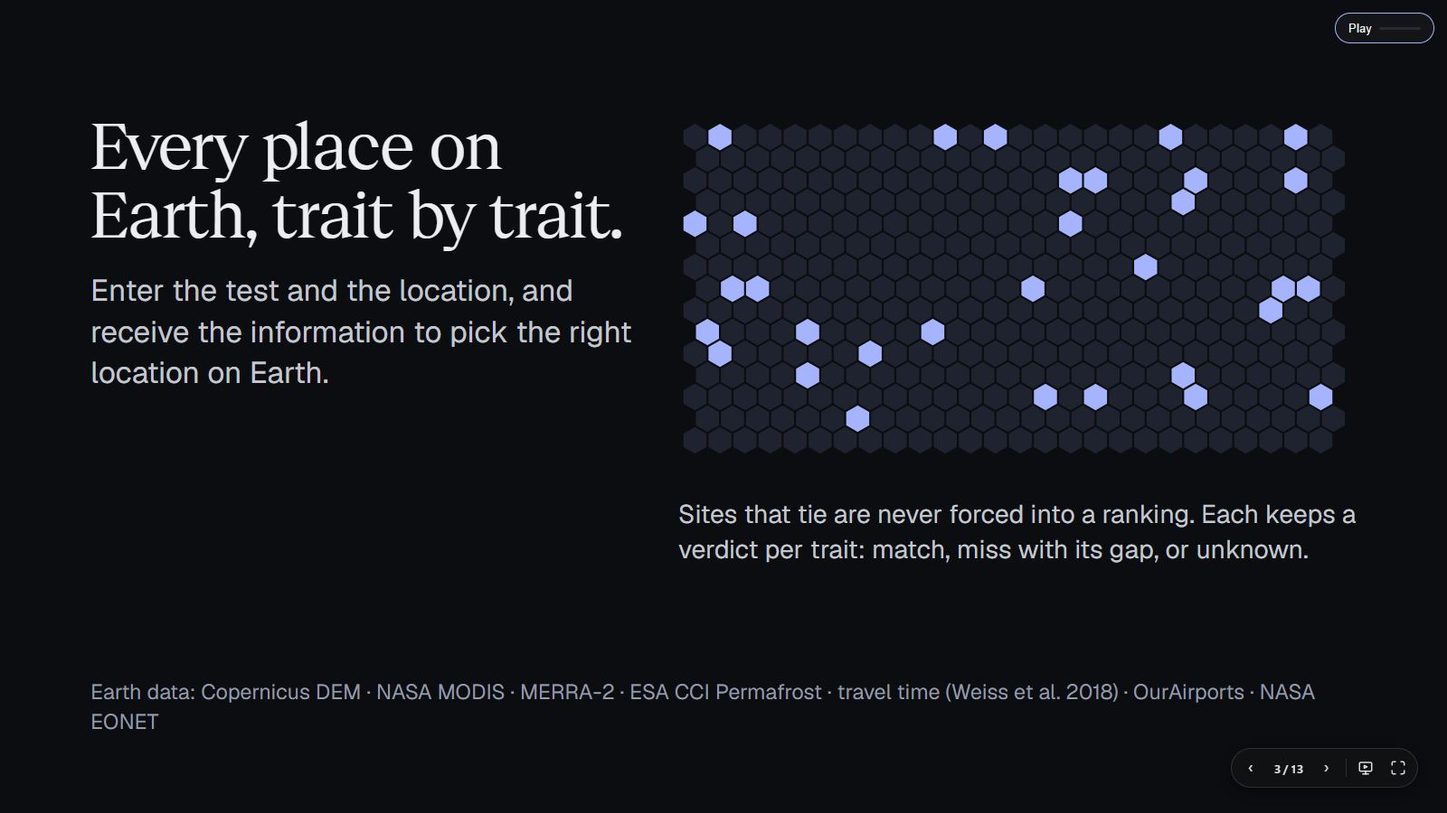
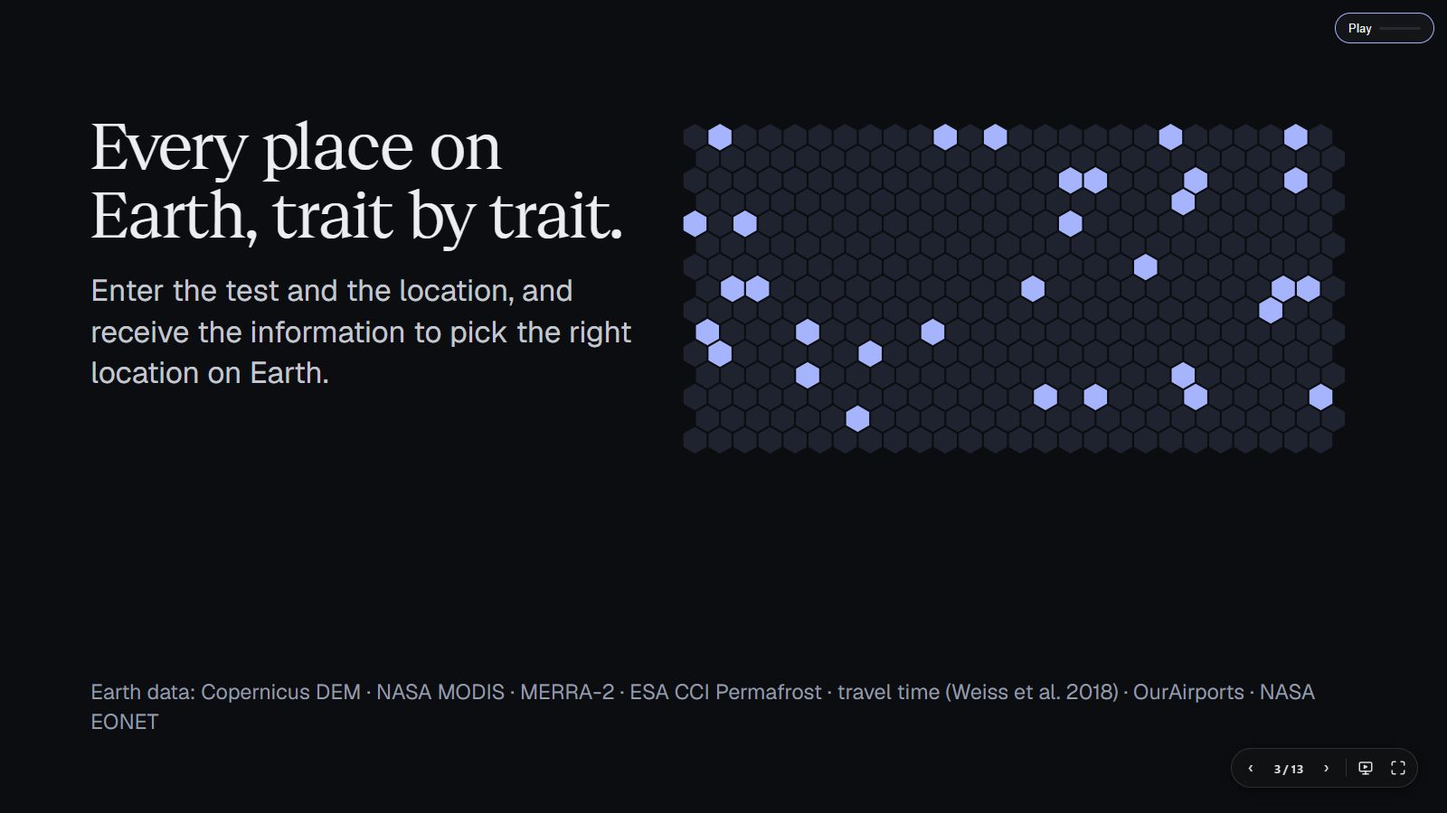
pitch(#215): drop the tie sentence from the How it works slide

Changed region(s): [[0.4688, 0.6222, 0.9375, 0.6844]]

diff --git a/apps/showcase/composition/index.html b/apps/showcase/composition/index.html
@@ -22,7 +22,7 @@
     },
     {
       "sceneId": "approach",
-      "notes": "Enter the test and the location; the grid lights up the cells that fit. Ties are not ranked."
+      "notes": "Enter the test and the location; the grid lights up the cells that fit."
     },
     {
       "sceneId": "step-1",
@@ -115,7 +115,6 @@
     <p class="lead approach-lead" data-anim>Enter the test and the location, and receive the information to pick the right location on Earth.</p>
   </div>
   <div class="hexwrap" data-glide><svg class="hexes" viewBox="0 0 1220 640" aria-hidden="true"><polygon class="hx" points="50.7,42.0 30.0,53.9 9.3,42.0 9.3,18.0 30.0,6.1 50.7,18.0"/><polygon class="hx fit" points="95.7,42.0 75.0,53.9 54.3,42.0 54.3,18.0 75.0,6.1 95.7,18.0"/><polygon class="hx" points="140.8,42.0 120.1,53.9 99.3,42.0 99.3,18.0 120.1,6.1 140.8,18.0"/><polygon class="hx" points="185.8,42.0 165.1,53.9 144.4,42.0 144.4,18.0 165.1,6.1 185.8,18.0"/><polygon class="hx" points="230.8,42.0 210.1,53.9 189.4,42.0 189.4,18.0 210.1,6.1 230.8,18.0"/><polygon class="hx" points="275.9,42.0 255.2,53.9 234.4,42.0 234.4,18.0 255.2,6.1 275.9,18.0"/><polygon class="hx" points="320.9,42.0 300.2,53.9 279.5,42.0 279.5,18.0 300.2,6.1 320.9,18.0"/><polygon class="hx" points="365.9,42.0 345.2,53.9 324.5,42.0 324.5,18.0 345.2,6.1 365.9,18.0"/><polygon class="hx" points="411.0,42.0 390.3,53.9 369.5,42.0 369.5,18.0 390.3,6.1 411.0,18.0"/><polygon class="hx" points="456.0,42.0 435.3,53.9 414.6,42.0 414.6,18.0 435.3,6.1 456.0,18.0"/><polygon class="hx fit" points="501.0,42.0 480.3,53.9 459.6,42.0 459.6,18.0 480.3,6.1 501.0,18.0"/><polygon class="hx" points="546.1,42.0 525.4,53.9 504.6,42.0 504.6,18.0 525.4,6.1 546.1,18.0"/><polygon class="hx fit" points="591.1,42.0 570.4,53.9 549.7,42.0 549.7,18.0 570.4,6.1 591.1,18.0"/><polygon class="hx" points="636.1,42.0 615.4,53.9 594.7,42.0 594.7,18.0 615.4,6.1 636.1,18.0"/><polygon class="hx" points="681.2,42.0 660.4,53.9 639.7,42.0 639.7,18.0 660.4,6.1 681.2,18.0"/><polygon class="hx" points="726.2,42.0 705.5,53.9 684.8,42.0 684.8,18.0 705.5,6.1 726.2,18.0"/><polygon class="hx" points="771.2,42.0 750.5,53.9 729.8,42.0 729.8,18.0 750.5,6.1 771.2,18.0"/><polygon class="hx" points="816.3,42.0 795.5,53.9 774.8,42.0 774.8,18.0 795.5,6.1 816.3,18.0"/><polygon class="hx" points="861.3,42.0 840.6,53.9 819.9,42.0 819.9,18.0 840.6,6.1 861.3,18.0"/><polygon class="hx fit" points="906.3,42.0 885.6,53.9 864.9,42.0 864.9,18.0 885.6,6.1 906.3,18.0"/><polygon class="hx" points="951.4,42.0 930.6,53.9 909.9,42.0 909.9,18.0 930.6,6.1 951.4,18.0"/><polygon class="hx" points="996.4,42.0 975.7,53.9 955.0,42.0 955.0,18.0 975.7,6.1 996.4,18.0"/><polygon class="hx" points="1041.4,42.0 1020.7,53.9 1000.0,42.0 1000.0,18.0 1020.7,6.1 1041.4,18.0"/><polygon class="hx" points="1086.5,42.0 1065.7,53.9 1045.0,42.0 1045.0,18.0 1065.7,6.1 1086.5,18.0"/><polygon class="hx fit" points="1131.5,42.0 1110.8,53.9 1090.1,42.0 1090.1,18.0 1110.8,6.1 1131.5,18.0"/><polygon class="hx" points="1176.5,42.0 1155.8,53.9 1135.1,42.0 1135.1,18.0 1155.8,6.1 1176.5,18.0"/><polygon class="hx" points="73.2,81.0 52.5,92.9 31.8,81.0 31.8,57.0 52.5,45.1 73.2,57.0"/><polygon class="hx" points="118.3,81.0 97.5,92.9 76.8,81.0 76.8,57.0 97.5,45.1 118.3,57.0"/><polygon class="hx" points="163.3,81.0 142.6,92.9 121.9,81.0 121.9,57.0 142.6,45.1 163.3,57.0"/><polygon class="hx" points="208.3,81.0 187.6,92.9 166.9,81.0 166.9,57.0 187.6,45.1 208.3,57.0"/><polygon class="hx" points="253.4,81.0 232.6,92.9 211.9,81.0 211.9,57.0 232.6,45.1 253.4,57.0"/><polygon class="hx" points="298.4,81.0 277.7,92.9 257.0,81.0 257.0,57.0 277.7,45.1 298.4,57.0"/><polygon class="hx" points="343.4,81.0 322.7,92.9 302.0,81.0 302.0,57.0 322.7,45.1 343.4,57.0"/><polygon class="hx" points="388.5,81.0 367.7,92.9 347.0,81.0 347.0,57.0 367.7,45.1 388.5,57.0"/><polygon class="hx" points="433.5,81.0 412.8,92.9 392.1,81.0 392.1,57.0 412.8,45.1 433.5,57.0"/><polygon class="hx" points="478.5,81.0 457.8,92.9 437.1,81.0 437.1,57.0 457.8,45.1 478.5,57.0"/><polygon class="hx" points="523.6,81.0 502.8,92.9 482.1,81.0 482.1,57.0 502.8,45.1 523.6,57.0"/><polygon class="hx" points="568.6,81.0 547.9,92.9 527.2,81.0 527.2,57.0 547.9,45.1 568.6,57.0"/><polygon class="hx" points="613.6,81.0 592.9,92.9 572.2,81.0 572.2,57.0 592.9,45.1 613.6,57.0"/><polygon class="hx" points="658.6,81.0 637.9,92.9 617.2,81.0 617.2,57.0 637.9,45.1 658.6,57.0"/><polygon class="hx" points="703.7,81.0 683.0,92.9 662.2,81.0 662.2,57.0 683.0,45.1 703.7,57.0"/><polygon class="hx" points="748.7,81.0 728.0,92.9 707.3,81.0 707.3,57.0 728.0,45.1 748.7,57.0"/><polygon class="hx" points="793.7,81.0 773.0,92.9 752.3,81.0 752.3,57.0 773.0,45.1 793.7,57.0"/><polygon class="hx" points="838.8,81.0 818.1,92.9 797.3,81.0 797.3,57.0 818.1,45.1 838.8,57.0"/><polygon class="hx" points="883.8,81.0 863.1,92.9 842.4,81.0 842.4,57.0 863.1,45.1 883.8,57.0"/><polygon class="hx" points="928.8,81.0 908.1,92.9 887.4,81.0 887.4,57.0 908.1,45.1 928.8,57.0"/><polygon class="hx" points="973.9,81.0 953.2,92.9 932.4,81.0 932.4,57.0 953.2,45.1 973.9,57.0"/><polygon class="hx" points="1018.9,81.0 998.2,92.9 977.5,81.0 977.5,57.0 998.2,45.1 1018.9,57.0"/><polygon class="hx" points="1063.9,81.0 1043.2,92.9 1022.5,81.0 1022.5,57.0 1043.2,45.1 1063.9,57.0"/><polygon class="hx" points="1109.0,81.0 1088.3,92.9 1067.5,81.0 1067.5,57.0 1088.3,45.1 1109.0,57.0"/><polygon class="hx" points="1154.0,81.0 1133.3,92.9 1112.6,81.0 1112.6,57.0 1133.3,45.1 1154.0,57.0"/><polygon class="hx" points="1199.0,81.0 1178.3,92.9 1157.6,81.0 1157.6,57.0 1178.3,45.1 1199.0,57.0"/><polygon class="hx" points="50.7,120.0 30.0,131.9 9.3,120.0 9.3,96.0 30.0,84.1 50.7,96.0"/><polygon class="hx" points="95.7,120.0 75.0,131.9 54.3,120.0 54.3,96.0 75.0,84.1 95.7,96.0"/><polygon class="hx" points="140.8,120.0 120.1,131.9 99.3,120.0 99.3,96.0 120.1,84.1 140.8,96.0"/><polygon class="hx" points="185.8,120.0 165.1,131.9 144.4,120.0 144.4,96.0 165.1,84.1 185.8,96.0"/><polygon class="hx" points="230.8,120.0 210.1,131.9 189.4,120.0 189.4,96.0 210.1,84.1 230.8,96.0"/><polygon class="hx" points="275.9,120.0 255.2,131.9 234.4,120.0 234.4,96.0 255.2,84.1 275.9,96.0"/><polygon class="hx" points="320.9,120.0 300.2,131.9 279.5,120.0 279.5,96.0 300.2,84.1 320.9,96.0"/><polygon class="hx" points="365.9,120.0 345.2,131.9 324.5,120.0 324.5,96.0 345.2,84.1 365.9,96.0"/><polygon class="hx" points="411.0,120.0 390.3,131.9 369.5,120.0 369.5,96.0 390.3,84.1 411.0,96.0"/><polygon class="hx" points="456.0,120.0 435.3,131.9 414.6,120.0 414.6,96.0 435.3,84.1 456.0,96.0"/><polygon class="hx" points="501.0,120.0 480.3,131.9 459.6,120.0 459.6,96.0 480.3,84.1 501.0,96.0"/><polygon class="hx" points="546.1,120.0 525.4,131.9 504.6,120.0 504.6,96.0 525.4,84.1 546.1,96.0"/><polygon class="hx" points="591.1,120.0 570.4,131.9 549.7,120.0 549.7,96.0 570.4,84.1 591.1,96.0"/><polygon class="hx" points="636.1,120.0 615.4,131.9 594.7,120.0 594.7,96.0 615.4,84.1 636.1,96.0"/><polygon class="hx" points="681.2,120.0 660.4,131.9 639.7,120.0 639.7,96.0 660.4,84.1 681.2,96.0"/><polygon class="hx fit" points="726.2,120.0 705.5,131.9 684.8,120.0 684.8,96.0 705.5,84.1 726.2,96.0"/><polygon class="hx fit" points="771.2,120.0 750.5,131.9 729.8,120.0 729.8,96.0 750.5,84.1 771.2,96.0"/><polygon class="hx" points="816.3,120.0 795.5,131.9 774.8,120.0 774.8,96.0 795.5,84.1 816.3,96.0"/><polygon class="hx" points="861.3,120.0 840.6,131.9 819.9,120.0 819.9,96.0 840.6,84.1 861.3,96.0"/><polygon class="hx" points="906.3,120.0 885.6,131.9 864.9,120.0 864.9,96.0 885.6,84.1 906.3,96.0"/><polygon class="hx fit" points="951.4,120.0 930.6,131.9 909.9,120.0 909.9,96.0 930.6,84.1 951.4,96.0"/><polygon class="hx" points="996.4,120.0 975.7,131.9 955.0,120.0 955.0,96.0 975.7,84.1 996.4,96.0"/><polygon class="hx" points="1041.4,120.0 1020.7,131.9 1000.0,120.0 1000.0,96.0 1020.7,84.1 1041.4,96.0"/><polygon class="hx" points="1086.5,120.0 1065.7,131.9 1045.0,120.0 1045.0,96.0 1065.7,84.1 1086.5,96.0"/><polygon class="hx fit" points="1131.5,120.0 1110.8,131.9 1090.1,120.0 1090.1,96.0 1110.8,84.1 1131.5,96.0"/><polygon class="hx" points="1176.5,120.0 1155.8,131.9 1135.1,120.0 1135.1,96.0 1155.8,84.1 1176.5,96.0"/><polygon class="hx" points="73.2,159.0 52.5,170.9 31.8,159.0 31.8,135.0 52.5,123.1 73.2,135.0"/><polygon class="hx" points="118.3,159.0 97.5,170.9 76.8,159.0 76.8,135.0 97.5,123.1 118.3,135.0"/><polygon class="hx" points="163.3,159.0 142.6,170.9 121.9,159.0 121.9,135.0 142.6,123.1 163.3,135.0"/><polygon class="hx" points="208.3,159.0 187.6,170.9 166.9,159.0 166.9,135.0 187.6,123.1 208.3,135.0"/><polygon class="hx" points="253.4,159.0 232.6,170.9 211.9,159.0 211.9,135.0 232.6,123.1 253.4,135.0"/><polygon class="hx" points="298.4,159.0 277.7,170.9 257.0,159.0 257.0,135.0 277.7,123.1 298.4,135.0"/><polygon class="hx" points="343.4,159.0 322.7,170.9 302.0,159.0 302.0,135.0 322.7,123.1 343.4,135.0"/><polygon class="hx" points="388.5,159.0 367.7,170.9 347.0,159.0 347.0,135.0 367.7,123.1 388.5,135.0"/><polygon class="hx" points="433.5,159.0 412.8,170.9 392.1,159.0 392.1,135.0 412.8,123.1 433.5,135.0"/><polygon class="hx" points="478.5,159.0 457.8,170.9 437.1,159.0 437.1,135.0 457.8,123.1 478.5,135.0"/><polygon class="hx" points="523.6,159.0 502.8,170.9 482.1,159.0 482.1,135.0 502.8,123.1 523.6,135.0"/><polygon class="hx" points="568.6,159.0 547.9,170.9 527.2,159.0 527.2,135.0 547.9,123.1 568.6,135.0"/><polygon class="hx" points="613.6,159.0 592.9,170.9 572.2,159.0 572.2,135.0 592.9,123.1 613.6,135.0"/><polygon class="hx" points="658.6,159.0 637.9,170.9 617.2,159.0 617.2,135.0 637.9,123.1 658.6,135.0"/><polygon class="hx" points="703.7,159.0 683.0,170.9 662.2,159.0 662.2,135.0 683.0,123.1 703.7,135.0"/><polygon class="hx" points="748.7,159.0 728.0,170.9 707.3,159.0 707.3,135.0 728.0,123.1 748.7,135.0"/><polygon class="hx" points="793.7,159.0 773.0,170.9 752.3,159.0 752.3,135.0 773.0,123.1 793.7,135.0"/><polygon class="hx" points="838.8,159.0 818.1,170.9 797.3,159.0 797.3,135.0 818.1,123.1 838.8,135.0"/><polygon class="hx" points="883.8,159.0 863.1,170.9 842.4,159.0 842.4,135.0 863.1,123.1 883.8,135.0"/><polygon class="hx fit" points="928.8,159.0 908.1,170.9 887.4,159.0 887.4,135.0 908.1,123.1 928.8,135.0"/><polygon class="hx" points="973.9,159.0 953.2,170.9 932.4,159.0 932.4,135.0 953.2,123.1 973.9,135.0"/><polygon class="hx" points="1018.9,159.0 998.2,170.9 977.5,159.0 977.5,135.0 998.2,123.1 1018.9,135.0"/><polygon class="hx" points="1063.9,159.0 1043.2,170.9 1022.5,159.0 1022.5,135.0 1043.2,123.1 1063.9,135.0"/><polygon class="hx" points="1109.0,159.0 1088.3,170.9 1067.5,159.0 1067.5,135.0 1088.3,123.1 1109.0,135.0"/><polygon class="hx" points="1154.0,159.0 1133.3,170.9 1112.6,159.0 1112.6,135.0 1133.3,123.1 1154.0,135.0"/><polygon class="hx" points="1199.0,159.0 1178.3,170.9 1157.6,159.0 1157.6,135.0 1178.3,123.1 1199.0,135.0"/><polygon class="hx fit" points="50.7,198.0 30.0,209.9 9.3,198.0 9.3,174.0 30.0,162.1 50.7,174.0"/><polygon class="hx" points="95.7,198.0 75.0,209.9 54.3,198.0 54.3,174.0 75.0,162.1 95.7,174.0"/><polygon class="hx fit" points="140.8,198.0 120.1,209.9 99.3,198.0 99.3,174.0 120.1,162.1 140.8,174.0"/><polygon class="hx" points="185.8,198.0 165.1,209.9 144.4,198.0 144.4,174.0 165.1,162.1 185.8,174.0"/><polygon class="hx" points="230.8,198.0 210.1,209.9 189.4,198.0 189.4,174.0 210.1,162.1 230.8,174.0"/><polygon class="hx" points="275.9,198.0 255.2,209.9 234.4,198.0 234.4,174.0 255.2,162.1 275.9,174.0"/><polygon class="hx" points="320.9,198.0 300.2,209.9 279.5,198.0 279.5,174.0 300.2,162.1 320.9,174.0"/><polygon class="hx" points="365.9,198.0 345.2,209.9 324.5,198.0 324.5,174.0 345.2,162.1 365.9,174.0"/><polygon class="hx" points="411.0,198.0 390.3,209.9 369.5,198.0 369.5,174.0 390.3,162.1 411.0,174.0"/><polygon class="hx" points="456.0,198.0 435.3,209.9 414.6,198.0 414.6,174.0 435.3,162.1 456.0,174.0"/><polygon class="hx" points="501.0,198.0 480.3,209.9 459.6,198.0 459.6,174.0 480.3,162.1 501.0,174.0"/><polygon class="hx" points="546.1,198.0 525.4,209.9 504.6,198.0 504.6,174.0 525.4,162.1 546.1,174.0"/><polygon class="hx" points="591.1,198.0 570.4,209.9 549.7,198.0 549.7,174.0 570.4,162.1 591.1,174.0"/><polygon class="hx" points="636.1,198.0 615.4,209.9 594.7,198.0 594.7,174.0 615.4,162.1 636.1,174.0"/><polygon class="hx" points="681.2,198.0 660.4,209.9 639.7,198.0 639.7,174.0 660.4,162.1 681.2,174.0"/><polygon class="hx fit" points="726.2,198.0 705.5,209.9 684.8,198.0 684.8,174.0 705.5,162.1 726.2,174.0"/><polygon class="hx" points="771.2,198.0 750.5,209.9 729.8,198.0 729.8,174.0 750.5,162.1 771.2,174.0"/><polygon class="hx" points="816.3,198.0 795.5,209.9 774.8,198.0 774.8,174.0 795.5,162.1 816.3,174.0"/><polygon class="hx" points="861.3,198.0 840.6,209.9 819.9,198.0 819.9,174.0 840.6,162.1 861.3,174.0"/><polygon class="hx" points="906.3,198.0 885.6,209.9 864.9,198.0 864.9,174.0 885.6,162.1 906.3,174.0"/><polygon class="hx" points="951.4,198.0 930.6,209.9 909.9,198.0 909.9,174.0 930.6,162.1 951.4,174.0"/><polygon class="hx" points="996.4,198.0 975.7,209.9 955.0,198.0 955.0,174.0 975.7,162.1 996.4,174.0"/><polygon class="hx" points="1041.4,198.0 1020.7,209.9 1000.0,198.0 1000.0,174.0 1020.7,162.1 1041.4,174.0"/><polygon class="hx" points="1086.5,198.0 1065.7,209.9 1045.0,198.0 1045.0,174.0 1065.7,162.1 1086.5,174.0"/><polygon class="hx" points="1131.5,198.0 1110.8,209.9 1090.1,198.0 1090.1,174.0 1110.8,162.1 1131.5,174.0"/><polygon class="hx" points="1176.5,198.0 1155.8,209.9 1135.1,198.0 1135.1,174.0 1155.8,162.1 1176.5,174.0"/><polygon class="hx" points="73.2,237.0 52.5,248.9 31.8,237.0 31.8,213.0 52.5,201.1 73.2,213.0"/><polygon class="hx" points="118.3,237.0 97.5,248.9 76.8,237.0 76.8,213.0 97.5,201.1 118.3,213.0"/><polygon class="hx" points="163.3,237.0 142.6,248.9 121.9,237.0 121.9,213.0 142.6,201.1 163.3,213.0"/><polygon class="hx" points="208.3,237.0 187.6,248.9 166.9,237.0 166.9,213.0 187.6,201.1 208.3,213.0"/><polygon class="hx" points="253.4,237.0 232.6,248.9 211.9,237.0 211.9,213.0 232.6,201.1 253.4,213.0"/><polygon class="hx" points="298.4,237.0 277.7,248.9 257.0,237.0 257.0,213.0 277.7,201.1 298.4,213.0"/><polygon class="hx" points="343.4,237.0 322.7,248.9 302.0,237.0 302.0,213.0 322.7,201.1 343.4,213.0"/><polygon class="hx" points="388.5,237.0 367.7,248.9 347.0,237.0 347.0,213.0 367.7,201.1 388.5,213.0"/><polygon class="hx" points="433.5,237.0 412.8,248.9 392.1,237.0 392.1,213.0 412.8,201.1 433.5,213.0"/><polygon class="hx" points="478.5,237.0 457.8,248.9 437.1,237.0 437.1,213.0 457.8,201.1 478.5,213.0"/><polygon class="hx" points="523.6,237.0 502.8,248.9 482.1,237.0 482.1,213.0 502.8,201.1 523.6,213.0"/><polygon class="hx" points="568.6,237.0 547.9,248.9 527.2,237.0 527.2,213.0 547.9,201.1 568.6,213.0"/><polygon class="hx" points="613.6,237.0 592.9,248.9 572.2,237.0 572.2,213.0 592.9,201.1 613.6,213.0"/><polygon class="hx" points="658.6,237.0 637.9,248.9 617.2,237.0 617.2,213.0 637.9,201.1 658.6,213.0"/><polygon class="hx" points="703.7,237.0 683.0,248.9 662.2,237.0 662.2,213.0 683.0,201.1 703.7,213.0"/><polygon class="hx" points="748.7,237.0 728.0,248.9 707.3,237.0 707.3,213.0 728.0,201.1 748.7,213.0"/><polygon class="hx" points="793.7,237.0 773.0,248.9 752.3,237.0 752.3,213.0 773.0,201.1 793.7,213.0"/><polygon class="hx" points="838.8,237.0 818.1,248.9 797.3,237.0 797.3,213.0 818.1,201.1 838.8,213.0"/><polygon class="hx" points="883.8,237.0 863.1,248.9 842.4,237.0 842.4,213.0 863.1,201.1 883.8,213.0"/><polygon class="hx" points="928.8,237.0 908.1,248.9 887.4,237.0 887.4,213.0 908.1,201.1 928.8,213.0"/><polygon class="hx" points="973.9,237.0 953.2,248.9 932.4,237.0 932.4,213.0 953.2,201.1 973.9,213.0"/><polygon class="hx" points="1018.9,237.0 998.2,248.9 977.5,237.0 977.5,213.0 998.2,201.1 1018.9,213.0"/><polygon class="hx" points="1063.9,237.0 1043.2,248.9 1022.5,237.0 1022.5,213.0 1043.2,201.1 1063.9,213.0"/><polygon class="hx" points="1109.0,237.0 1088.3,248.9 1067.5,237.0 1067.5,213.0 1088.3,201.1 1109.0,213.0"/><polygon class="hx" points="1154.0,237.0 1133.3,248.9 1112.6,237.0 1112.6,213.0 1133.3,201.1 1154.0,213.0"/><polygon class="hx" points="1199.0,237.0 1178.3,248.9 1157.6,237.0 1157.6,213.0 1178.3,201.1 1199.0,213.0"/><polygon class="hx" points="50.7,276.0 30.0,287.9 9.3,276.0 9.3,252.0 30.0,240.1 50.7,252.0"/><polygon class="hx" points="95.7,276.0 75.0,287.9 54.3,276.0 54.3,252.0 75.0,240.1 95.7,252.0"/><polygon class="hx" points="140.8,276.0 120.1,287.9 99.3,276.0 99.3,252.0 120.1,240.1 140.8,252.0"/><polygon class="hx" points="185.8,276.0 165.1,287.9 144.4,276.0 144.4,252.0 165.1,240.1 185.8,252.0"/><polygon class="hx" points="230.8,276.0 210.1,287.9 189.4,276.0 189.4,252.0 210.1,240.1 230.8,252.0"/><polygon class="hx" points="275.9,276.0 255.2,287.9 234.4,276.0 234.4,252.0 255.2,240.1 275.9,252.0"/><polygon class="hx" points="320.9,276.0 300.2,287.9 279.5,276.0 279.5,252.0 300.2,240.1 320.9,252.0"/><polygon class="hx" points="365.9,276.0 345.2,287.9 324.5,276.0 324.5,252.0 345.2,240.1 365.9,252.0"/><polygon class="hx" points="411.0,276.0 390.3,287.9 369.5,276.0 369.5,252.0 390.3,240.1 411.0,252.0"/><polygon class="hx" points="456.0,276.0 435.3,287.9 414.6,276.0 414.6,252.0 435.3,240.1 456.0,252.0"/><polygon class="hx" points="501.0,276.0 480.3,287.9 459.6,276.0 459.6,252.0 480.3,240.1 501.0,252.0"/><polygon class="hx" points="546.1,276.0 525.4,287.9 504.6,276.0 504.6,252.0 525.4,240.1 546.1,252.0"/><polygon class="hx" points="591.1,276.0 570.4,287.9 549.7,276.0 549.7,252.0 570.4,240.1 591.1,252.0"/><polygon class="hx" points="636.1,276.0 615.4,287.9 594.7,276.0 594.7,252.0 615.4,240.1 636.1,252.0"/><polygon class="hx" points="681.2,276.0 660.4,287.9 639.7,276.0 639.7,252.0 660.4,240.1 681.2,252.0"/><polygon class="hx" points="726.2,276.0 705.5,287.9 684.8,276.0 684.8,252.0 705.5,240.1 726.2,252.0"/><polygon class="hx" points="771.2,276.0 750.5,287.9 729.8,276.0 729.8,252.0 750.5,240.1 771.2,252.0"/><polygon class="hx" points="816.3,276.0 795.5,287.9 774.8,276.0 774.8,252.0 795.5,240.1 816.3,252.0"/><polygon class="hx fit" points="861.3,276.0 840.6,287.9 819.9,276.0 819.9,252.0 840.6,240.1 861.3,252.0"/><polygon class="hx" points="906.3,276.0 885.6,287.9 864.9,276.0 864.9,252.0 885.6,240.1 906.3,252.0"/><polygon class="hx" points="951.4,276.0 930.6,287.9 909.9,276.0 909.9,252.0 930.6,240.1 951.4,252.0"/><polygon class="hx" points="996.4,276.0 975.7,287.9 955.0,276.0 955.0,252.0 975.7,240.1 996.4,252.0"/><polygon class="hx" points="1041.4,276.0 1020.7,287.9 1000.0,276.0 1000.0,252.0 1020.7,240.1 1041.4,252.0"/><polygon class="hx" points="1086.5,276.0 1065.7,287.9 1045.0,276.0 1045.0,252.0 1065.7,240.1 1086.5,252.0"/><polygon class="hx" points="1131.5,276.0 1110.8,287.9 1090.1,276.0 1090.1,252.0 1110.8,240.1 1131.5,252.0"/><polygon class="hx" points="1176.5,276.0 1155.8,287.9 1135.1,276.0 1135.1,252.0 1155.8,240.1 1176.5,252.0"/><polygon class="hx" points="73.2,315.0 52.5,326.9 31.8,315.0 31.8,291.0 52.5,279.1 73.2,291.0"/><polygon class="hx fit" points="118.3,315.0 97.5,326.9 76.8,315.0 76.8,291.0 97.5,279.1 118.3,291.0"/><polygon class="hx fit" points="163.3,315.0 142.6,326.9 121.9,315.0 121.9,291.0 142.6,279.1 163.3,291.0"/><polygon class="hx" points="208.3,315.0 187.6,326.9 166.9,315.0 166.9,291.0 187.6,279.1 208.3,291.0"/><polygon class="hx" points="253.4,315.0 232.6,326.9 211.9,315.0 211.9,291.0 232.6,279.1 253.4,291.0"/><polygon class="hx" points="298.4,315.0 277.7,326.9 257.0,315.0 257.0,291.0 277.7,279.1 298.4,291.0"/><polygon class="hx" points="343.4,315.0 322.7,326.9 302.0,315.0 302.0,291.0 322.7,279.1 343.4,291.0"/><polygon class="hx" points="388.5,315.0 367.7,326.9 347.0,315.0 347.0,291.0 367.7,279.1 388.5,291.0"/><polygon class="hx" points="433.5,315.0 412.8,326.9 392.1,315.0 392.1,291.0 412.8,279.1 433.5,291.0"/><polygon class="hx" points="478.5,315.0 457.8,326.9 437.1,315.0 437.1,291.0 457.8,279.1 478.5,291.0"/><polygon class="hx" points="523.6,315.0 502.8,326.9 482.1,315.0 482.1,291.0 502.8,279.1 523.6,291.0"/><polygon class="hx" points="568.6,315.0 547.9,326.9 527.2,315.0 527.2,291.0 547.9,279.1 568.6,291.0"/><polygon class="hx" points="613.6,315.0 592.9,326.9 572.2,315.0 572.2,291.0 592.9,279.1 613.6,291.0"/><polygon class="hx fit" points="658.6,315.0 637.9,326.9 617.2,315.0 617.2,291.0 637.9,279.1 658.6,291.0"/><polygon class="hx" points="703.7,315.0 683.0,326.9 662.2,315.0 662.2,291.0 683.0,279.1 703.7,291.0"/><polygon class="hx" points="748.7,315.0 728.0,326.9 707.3,315.0 707.3,291.0 728.0,279.1 748.7,291.0"/><polygon class="hx" points="793.7,315.0 773.0,326.9 752.3,315.0 752.3,291.0 773.0,279.1 793.7,291.0"/><polygon class="hx" points="838.8,315.0 818.1,326.9 797.3,315.0 797.3,291.0 818.1,279.1 838.8,291.0"/><polygon class="hx" points="883.8,315.0 863.1,326.9 842.4,315.0 842.4,291.0 863.1,279.1 883.8,291.0"/><polygon class="hx" points="928.8,315.0 908.1,326.9 887.4,315.0 887.4,291.0 908.1,279.1 928.8,291.0"/><polygon class="hx" points="973.9,315.0 953.2,326.9 932.4,315.0 932.4,291.0 953.2,279.1 973.9,291.0"/><polygon class="hx" points="1018.9,315.0 998.2,326.9 977.5,315.0 977.5,291.0 998.2,279.1 1018.9,291.0"/><polygon class="hx" points="1063.9,315.0 1043.2,326.9 1022.5,315.0 1022.5,291.0 1043.2,279.1 1063.9,291.0"/><polygon class="hx fit" points="1109.0,315.0 1088.3,326.9 1067.5,315.0 1067.5,291.0 1088.3,279.1 1109.0,291.0"/><polygon class="hx fit" points="1154.0,315.0 1133.3,326.9 1112.6,315.0 1112.6,291.0 1133.3,279.1 1154.0,291.0"/><polygon class="hx" points="1199.0,315.0 1178.3,326.9 1157.6,315.0 1157.6,291.0 1178.3,279.1 1199.0,291.0"/><polygon class="hx" points="50.7,354.0 30.0,365.9 9.3,354.0 9.3,330.0 30.0,318.1 50.7,330.0"/><polygon class="hx" points="95.7,354.0 75.0,365.9 54.3,354.0 54.3,330.0 75.0,318.1 95.7,330.0"/><polygon class="hx" points="140.8,354.0 120.1,365.9 99.3,354.0 99.3,330.0 120.1,318.1 140.8,330.0"/><polygon class="hx" points="185.8,354.0 165.1,365.9 144.4,354.0 144.4,330.0 165.1,318.1 185.8,330.0"/><polygon class="hx" points="230.8,354.0 210.1,365.9 189.4,354.0 189.4,330.0 210.1,318.1 230.8,330.0"/><polygon class="hx" points="275.9,354.0 255.2,365.9 234.4,354.0 234.4,330.0 255.2,318.1 275.9,330.0"/><polygon class="hx" points="320.9,354.0 300.2,365.9 279.5,354.0 279.5,330.0 300.2,318.1 320.9,330.0"/><polygon class="hx" points="365.9,354.0 345.2,365.9 324.5,354.0 324.5,330.0 345.2,318.1 365.9,330.0"/><polygon class="hx" points="411.0,354.0 390.3,365.9 369.5,354.0 369.5,330.0 390.3,318.1 411.0,330.0"/><polygon class="hx" points="456.0,354.0 435.3,365.9 414.6,354.0 414.6,330.0 435.3,318.1 456.0,330.0"/><polygon class="hx" points="501.0,354.0 480.3,365.9 459.6,354.0 459.6,330.0 480.3,318.1 501.0,330.0"/><polygon class="hx" points="546.1,354.0 525.4,365.9 504.6,354.0 504.6,330.0 525.4,318.1 546.1,330.0"/><polygon class="hx" points="591.1,354.0 570.4,365.9 549.7,354.0 549.7,330.0 570.4,318.1 591.1,330.0"/><polygon class="hx" points="636.1,354.0 615.4,365.9 594.7,354.0 594.7,330.0 615.4,318.1 636.1,330.0"/><polygon class="hx" points="681.2,354.0 660.4,365.9 639.7,354.0 639.7,330.0 660.4,318.1 681.2,330.0"/><polygon class="hx" points="726.2,354.0 705.5,365.9 684.8,354.0 684.8,330.0 705.5,318.1 726.2,330.0"/><polygon class="hx" points="771.2,354.0 750.5,365.9 729.8,354.0 729.8,330.0 750.5,318.1 771.2,330.0"/><polygon class="hx" points="816.3,354.0 795.5,365.9 774.8,354.0 774.8,330.0 795.5,318.1 816.3,330.0"/><polygon class="hx" points="861.3,354.0 840.6,365.9 819.9,354.0 819.9,330.0 840.6,318.1 861.3,330.0"/><polygon class="hx" points="906.3,354.0 885.6,365.9 864.9,354.0 864.9,330.0 885.6,318.1 906.3,330.0"/><polygon class="hx" points="951.4,354.0 930.6,365.9 909.9,354.0 909.9,330.0 930.6,318.1 951.4,330.0"/><polygon class="hx" points="996.4,354.0 975.7,365.9 955.0,354.0 955.0,330.0 975.7,318.1 996.4,330.0"/><polygon class="hx" points="1041.4,354.0 1020.7,365.9 1000.0,354.0 1000.0,330.0 1020.7,318.1 1041.4,330.0"/><polygon class="hx fit" points="1086.5,354.0 1065.7,365.9 1045.0,354.0 1045.0,330.0 1065.7,318.1 1086.5,330.0"/><polygon class="hx" points="1131.5,354.0 1110.8,365.9 1090.1,354.0 1090.1,330.0 1110.8,318.1 1131.5,330.0"/><polygon class="hx" points="1176.5,354.0 1155.8,365.9 1135.1,354.0 1135.1,330.0 1155.8,318.1 1176.5,330.0"/><polygon class="hx fit" points="73.2,393.0 52.5,404.9 31.8,393.0 31.8,369.0 52.5,357.1 73.2,369.0"/><polygon class="hx" points="118.3,393.0 97.5,404.9 76.8,393.0 76.8,369.0 97.5,357.1 118.3,369.0"/><polygon class="hx" points="163.3,393.0 142.6,404.9 121.9,393.0 121.9,369.0 142.6,357.1 163.3,369.0"/><polygon class="hx" points="208.3,393.0 187.6,404.9 166.9,393.0 166.9,369.0 187.6,357.1 208.3,369.0"/><polygon class="hx fit" points="253.4,393.0 232.6,404.9 211.9,393.0 211.9,369.0 232.6,357.1 253.4,369.0"/><polygon class="hx" points="298.4,393.0 277.7,404.9 257.0,393.0 257.0,369.0 277.7,357.1 298.4,369.0"/><polygon class="hx" points="343.4,393.0 322.7,404.9 302.0,393.0 302.0,369.0 322.7,357.1 343.4,369.0"/><polygon class="hx" points="388.5,393.0 367.7,404.9 347.0,393.0 347.0,369.0 367.7,357.1 388.5,369.0"/><polygon class="hx" points="433.5,393.0 412.8,404.9 392.1,393.0 392.1,369.0 412.8,357.1 433.5,369.0"/><polygon class="hx fit" points="478.5,393.0 457.8,404.9 437.1,393.0 437.1,369.0 457.8,357.1 478.5,369.0"/><polygon class="hx" points="523.6,393.0 502.8,404.9 482.1,393.0 482.1,369.0 502.8,357.1 523.6,369.0"/><polygon class="hx" points="568.6,393.0 547.9,404.9 527.2,393.0 527.2,369.0 547.9,357.1 568.6,369.0"/><polygon class="hx" points="613.6,393.0 592.9,404.9 572.2,393.0 572.2,369.0 592.9,357.1 613.6,369.0"/><polygon class="hx" points="658.6,393.0 637.9,404.9 617.2,393.0 617.2,369.0 637.9,357.1 658.6,369.0"/><polygon class="hx" points="703.7,393.0 683.0,404.9 662.2,393.0 662.2,369.0 683.0,357.1 703.7,369.0"/><polygon class="hx" points="748.7,393.0 728.0,404.9 707.3,393.0 707.3,369.0 728.0,357.1 748.7,369.0"/><polygon class="hx" points="793.7,393.0 773.0,404.9 752.3,393.0 752.3,369.0 773.0,357.1 793.7,369.0"/><polygon class="hx" points="838.8,393.0 818.1,404.9 797.3,393.0 797.3,369.0 818.1,357.1 838.8,369.0"/><polygon class="hx" points="883.8,393.0 863.1,404.9 842.4,393.0 842.4,369.0 863.1,357.1 883.8,369.0"/><polygon class="hx" points="928.8,393.0 908.1,404.9 887.4,393.0 887.4,369.0 908.1,357.1 928.8,369.0"/><polygon class="hx" points="973.9,393.0 953.2,404.9 932.4,393.0 932.4,369.0 953.2,357.1 973.9,369.0"/><polygon class="hx" points="1018.9,393.0 998.2,404.9 977.5,393.0 977.5,369.0 998.2,357.1 1018.9,369.0"/><polygon class="hx" points="1063.9,393.0 1043.2,404.9 1022.5,393.0 1022.5,369.0 1043.2,357.1 1063.9,369.0"/><polygon class="hx" points="1109.0,393.0 1088.3,404.9 1067.5,393.0 1067.5,369.0 1088.3,357.1 1109.0,369.0"/><polygon class="hx" points="1154.0,393.0 1133.3,404.9 1112.6,393.0 1112.6,369.0 1133.3,357.1 1154.0,369.0"/><polygon class="hx" points="1199.0,393.0 1178.3,404.9 1157.6,393.0 1157.6,369.0 1178.3,357.1 1199.0,369.0"/><polygon class="hx" points="50.7,432.0 30.0,443.9 9.3,432.0 9.3,408.0 30.0,396.1 50.7,408.0"/><polygon class="hx fit" points="95.7,432.0 75.0,443.9 54.3,432.0 54.3,408.0 75.0,396.1 95.7,408.0"/><polygon class="hx" points="140.8,432.0 120.1,443.9 99.3,432.0 99.3,408.0 120.1,396.1 140.8,408.0"/><polygon class="hx" points="185.8,432.0 165.1,443.9 144.4,432.0 144.4,408.0 165.1,396.1 185.8,408.0"/><polygon class="hx" points="230.8,432.0 210.1,443.9 189.4,432.0 189.4,408.0 210.1,396.1 230.8,408.0"/><polygon class="hx" points="275.9,432.0 255.2,443.9 234.4,432.0 234.4,408.0 255.2,396.1 275.9,408.0"/><polygon class="hx" points="320.9,432.0 300.2,443.9 279.5,432.0 279.5,408.0 300.2,396.1 320.9,408.0"/><polygon class="hx fit" points="365.9,432.0 345.2,443.9 324.5,432.0 324.5,408.0 345.2,396.1 365.9,408.0"/><polygon class="hx" points="411.0,432.0 390.3,443.9 369.5,432.0 369.5,408.0 390.3,396.1 411.0,408.0"/><polygon class="hx" points="456.0,432.0 435.3,443.9 414.6,432.0 414.6,408.0 435.3,396.1 456.0,408.0"/><polygon class="hx" points="501.0,432.0 480.3,443.9 459.6,432.0 459.6,408.0 480.3,396.1 501.0,408.0"/><polygon class="hx" points="546.1,432.0 525.4,443.9 504.6,432.0 504.6,408.0 525.4,396.1 546.1,408.0"/><polygon class="hx" points="591.1,432.0 570.4,443.9 549.7,432.0 549.7,408.0 570.4,396.1 591.1,408.0"/><polygon class="hx" points="636.1,432.0 615.4,443.9 594.7,432.0 594.7,408.0 615.4,396.1 636.1,408.0"/><polygon class="hx" points="681.2,432.0 660.4,443.9 639.7,432.0 639.7,408.0 660.4,396.1 681.2,408.0"/><polygon class="hx" points="726.2,432.0 705.5,443.9 684.8,432.0 684.8,408.0 705.5,396.1 726.2,408.0"/><polygon class="hx" points="771.2,432.0 750.5,443.9 729.8,432.0 729.8,408.0 750.5,396.1 771.2,408.0"/><polygon class="hx" points="816.3,432.0 795.5,443.9 774.8,432.0 774.8,408.0 795.5,396.1 816.3,408.0"/><polygon class="hx" points="861.3,432.0 840.6,443.9 819.9,432.0 819.9,408.0 840.6,396.1 861.3,408.0"/><polygon class="hx" points="906.3,432.0 885.6,443.9 864.9,432.0 864.9,408.0 885.6,396.1 906.3,408.0"/><polygon class="hx" points="951.4,432.0 930.6,443.9 909.9,432.0 909.9,408.0 930.6,396.1 951.4,408.0"/><polygon class="hx" points="996.4,432.0 975.7,443.9 955.0,432.0 955.0,408.0 975.7,396.1 996.4,408.0"/><polygon class="hx" points="1041.4,432.0 1020.7,443.9 1000.0,432.0 1000.0,408.0 1020.7,396.1 1041.4,408.0"/><polygon class="hx" points="1086.5,432.0 1065.7,443.9 1045.0,432.0 1045.0,408.0 1065.7,396.1 1086.5,408.0"/><polygon class="hx" points="1131.5,432.0 1110.8,443.9 1090.1,432.0 1090.1,408.0 1110.8,396.1 1131.5,408.0"/><polygon class="hx" points="1176.5,432.0 1155.8,443.9 1135.1,432.0 1135.1,408.0 1155.8,396.1 1176.5,408.0"/><polygon class="hx" points="73.2,471.0 52.5,482.9 31.8,471.0 31.8,447.0 52.5,435.1 73.2,447.0"/><polygon class="hx" points="118.3,471.0 97.5,482.9 76.8,471.0 76.8,447.0 97.5,435.1 118.3,447.0"/><polygon class="hx" points="163.3,471.0 142.6,482.9 121.9,471.0 121.9,447.0 142.6,435.1 163.3,447.0"/><polygon class="hx" points="208.3,471.0 187.6,482.9 166.9,471.0 166.9,447.0 187.6,435.1 208.3,447.0"/><polygon class="hx fit" points="253.4,471.0 232.6,482.9 211.9,471.0 211.9,447.0 232.6,435.1 253.4,447.0"/><polygon class="hx" points="298.4,471.0 277.7,482.9 257.0,471.0 257.0,447.0 277.7,435.1 298.4,447.0"/><polygon class="hx" points="343.4,471.0 322.7,482.9 302.0,471.0 302.0,447.0 322.7,435.1 343.4,447.0"/><polygon class="hx" points="388.5,471.0 367.7,482.9 347.0,471.0 347.0,447.0 367.7,435.1 388.5,447.0"/><polygon class="hx" points="433.5,471.0 412.8,482.9 392.1,471.0 392.1,447.0 412.8,435.1 433.5,447.0"/><polygon class="hx" points="478.5,471.0 457.8,482.9 437.1,471.0 437.1,447.0 457.8,435.1 478.5,447.0"/><polygon class="hx" points="523.6,471.0 502.8,482.9 482.1,471.0 482.1,447.0 502.8,435.1 523.6,447.0"/><polygon class="hx" points="568.6,471.0 547.9,482.9 527.2,471.0 527.2,447.0 547.9,435.1 568.6,447.0"/><polygon class="hx" points="613.6,471.0 592.9,482.9 572.2,471.0 572.2,447.0 592.9,435.1 613.6,447.0"/><polygon class="hx" points="658.6,471.0 637.9,482.9 617.2,471.0 617.2,447.0 637.9,435.1 658.6,447.0"/><polygon class="hx" points="703.7,471.0 683.0,482.9 662.2,471.0 662.2,447.0 683.0,435.1 703.7,447.0"/><polygon class="hx" points="748.7,471.0 728.0,482.9 707.3,471.0 707.3,447.0 728.0,435.1 748.7,447.0"/><polygon class="hx" points="793.7,471.0 773.0,482.9 752.3,471.0 752.3,447.0 773.0,435.1 793.7,447.0"/><polygon class="hx" points="838.8,471.0 818.1,482.9 797.3,471.0 797.3,447.0 818.1,435.1 838.8,447.0"/><polygon class="hx" points="883.8,471.0 863.1,482.9 842.4,471.0 842.4,447.0 863.1,435.1 883.8,447.0"/><polygon class="hx fit" points="928.8,471.0 908.1,482.9 887.4,471.0 887.4,447.0 908.1,435.1 928.8,447.0"/><polygon class="hx" points="973.9,471.0 953.2,482.9 932.4,471.0 932.4,447.0 953.2,435.1 973.9,447.0"/><polygon class="hx" points="1018.9,471.0 998.2,482.9 977.5,471.0 977.5,447.0 998.2,435.1 1018.9,447.0"/><polygon class="hx" points="1063.9,471.0 1043.2,482.9 1022.5,471.0 1022.5,447.0 1043.2,435.1 1063.9,447.0"/><polygon class="hx" points="1109.0,471.0 1088.3,482.9 1067.5,471.0 1067.5,447.0 1088.3,435.1 1109.0,447.0"/><polygon class="hx" points="1154.0,471.0 1133.3,482.9 1112.6,471.0 1112.6,447.0 1133.3,435.1 1154.0,447.0"/><polygon class="hx" points="1199.0,471.0 1178.3,482.9 1157.6,471.0 1157.6,447.0 1178.3,435.1 1199.0,447.0"/><polygon class="hx" points="50.7,510.0 30.0,521.9 9.3,510.0 9.3,486.0 30.0,474.1 50.7,486.0"/><polygon class="hx" points="95.7,510.0 75.0,521.9 54.3,510.0 54.3,486.0 75.0,474.1 95.7,486.0"/><polygon class="hx" points="140.8,510.0 120.1,521.9 99.3,510.0 99.3,486.0 120.1,474.1 140.8,486.0"/><polygon class="hx" points="185.8,510.0 165.1,521.9 144.4,510.0 144.4,486.0 165.1,474.1 185.8,486.0"/><polygon class="hx" points="230.8,510.0 210.1,521.9 189.4,510.0 189.4,486.0 210.1,474.1 230.8,486.0"/><polygon class="hx" points="275.9,510.0 255.2,521.9 234.4,510.0 234.4,486.0 255.2,474.1 275.9,486.0"/><polygon class="hx" points="320.9,510.0 300.2,521.9 279.5,510.0 279.5,486.0 300.2,474.1 320.9,486.0"/><polygon class="hx" points="365.9,510.0 345.2,521.9 324.5,510.0 324.5,486.0 345.2,474.1 365.9,486.0"/><polygon class="hx" points="411.0,510.0 390.3,521.9 369.5,510.0 369.5,486.0 390.3,474.1 411.0,486.0"/><polygon class="hx" points="456.0,510.0 435.3,521.9 414.6,510.0 414.6,486.0 435.3,474.1 456.0,486.0"/><polygon class="hx" points="501.0,510.0 480.3,521.9 459.6,510.0 459.6,486.0 480.3,474.1 501.0,486.0"/><polygon class="hx" points="546.1,510.0 525.4,521.9 504.6,510.0 504.6,486.0 525.4,474.1 546.1,486.0"/><polygon class="hx" points="591.1,510.0 570.4,521.9 549.7,510.0 549.7,486.0 570.4,474.1 591.1,486.0"/><polygon class="hx" points="636.1,510.0 615.4,521.9 594.7,510.0 594.7,486.0 615.4,474.1 636.1,486.0"/><polygon class="hx fit" points="681.2,510.0 660.4,521.9 639.7,510.0 639.7,486.0 660.4,474.1 681.2,486.0"/><polygon class="hx" points="726.2,510.0 705.5,521.9 684.8,510.0 684.8,486.0 705.5,474.1 726.2,486.0"/><polygon class="hx fit" points="771.2,510.0 750.5,521.9 729.8,510.0 729.8,486.0 750.5,474.1 771.2,486.0"/><polygon class="hx" points="816.3,510.0 795.5,521.9 774.8,510.0 774.8,486.0 795.5,474.1 816.3,486.0"/><polygon class="hx" points="861.3,510.0 840.6,521.9 819.9,510.0 819.9,486.0 840.6,474.1 861.3,486.0"/><polygon class="hx" points="906.3,510.0 885.6,521.9 864.9,510.0 864.9,486.0 885.6,474.1 906.3,486.0"/><polygon class="hx fit" points="951.4,510.0 930.6,521.9 909.9,510.0 909.9,486.0 930.6,474.1 951.4,486.0"/><polygon class="hx" points="996.4,510.0 975.7,521.9 955.0,510.0 955.0,486.0 975.7,474.1 996.4,486.0"/><polygon class="hx" points="1041.4,510.0 1020.7,521.9 1000.0,510.0 1000.0,486.0 1020.7,474.1 1041.4,486.0"/><polygon class="hx" points="1086.5,510.0 1065.7,521.9 1045.0,510.0 1045.0,486.0 1065.7,474.1 1086.5,486.0"/><polygon class="hx" points="1131.5,510.0 1110.8,521.9 1090.1,510.0 1090.1,486.0 1110.8,474.1 1131.5,486.0"/><polygon class="hx fit" points="1176.5,510.0 1155.8,521.9 1135.1,510.0 1135.1,486.0 1155.8,474.1 1176.5,486.0"/><polygon class="hx" points="73.2,549.0 52.5,560.9 31.8,549.0 31.8,525.0 52.5,513.1 73.2,525.0"/><polygon class="hx" points="118.3,549.0 97.5,560.9 76.8,549.0 76.8,525.0 97.5,513.1 118.3,525.0"/><polygon class="hx" points="163.3,549.0 142.6,560.9 121.9,549.0 121.9,525.0 142.6,513.1 163.3,525.0"/><polygon class="hx" points="208.3,549.0 187.6,560.9 166.9,549.0 166.9,525.0 187.6,513.1 208.3,525.0"/><polygon class="hx" points="253.4,549.0 232.6,560.9 211.9,549.0 211.9,525.0 232.6,513.1 253.4,525.0"/><polygon class="hx" points="298.4,549.0 277.7,560.9 257.0,549.0 257.0,525.0 277.7,513.1 298.4,525.0"/><polygon class="hx fit" points="343.4,549.0 322.7,560.9 302.0,549.0 302.0,525.0 322.7,513.1 343.4,525.0"/><polygon class="hx" points="388.5,549.0 367.7,560.9 347.0,549.0 347.0,525.0 367.7,513.1 388.5,525.0"/><polygon class="hx" points="433.5,549.0 412.8,560.9 392.1,549.0 392.1,525.0 412.8,513.1 433.5,525.0"/><polygon class="hx" points="478.5,549.0 457.8,560.9 437.1,549.0 437.1,525.0 457.8,513.1 478.5,525.0"/><polygon class="hx" points="523.6,549.0 502.8,560.9 482.1,549.0 482.1,525.0 502.8,513.1 523.6,525.0"/><polygon class="hx" points="568.6,549.0 547.9,560.9 527.2,549.0 527.2,525.0 547.9,513.1 568.6,525.0"/><polygon class="hx" points="613.6,549.0 592.9,560.9 572.2,549.0 572.2,525.0 592.9,513.1 613.6,525.0"/><polygon class="hx" points="658.6,549.0 637.9,560.9 617.2,549.0 617.2,525.0 637.9,513.1 658.6,525.0"/><polygon class="hx" points="703.7,549.0 683.0,560.9 662.2,549.0 662.2,525.0 683.0,513.1 703.7,525.0"/><polygon class="hx" points="748.7,549.0 728.0,560.9 707.3,549.0 707.3,525.0 728.0,513.1 748.7,525.0"/><polygon class="hx" points="793.7,549.0 773.0,560.9 752.3,549.0 752.3,525.0 773.0,513.1 793.7,525.0"/><polygon class="hx" points="838.8,549.0 818.1,560.9 797.3,549.0 797.3,525.0 818.1,513.1 838.8,525.0"/><polygon class="hx" points="883.8,549.0 863.1,560.9 842.4,549.0 842.4,525.0 863.1,513.1 883.8,525.0"/><polygon class="hx" points="928.8,549.0 908.1,560.9 887.4,549.0 887.4,525.0 908.1,513.1 928.8,525.0"/><polygon class="hx" points="973.9,549.0 953.2,560.9 932.4,549.0 932.4,525.0 953.2,513.1 973.9,525.0"/><polygon class="hx" points="1018.9,549.0 998.2,560.9 977.5,549.0 977.5,525.0 998.2,513.1 1018.9,525.0"/><polygon class="hx" points="1063.9,549.0 1043.2,560.9 1022.5,549.0 1022.5,525.0 1043.2,513.1 1063.9,525.0"/><polygon class="hx" points="1109.0,549.0 1088.3,560.9 1067.5,549.0 1067.5,525.0 1088.3,513.1 1109.0,525.0"/><polygon class="hx" points="1154.0,549.0 1133.3,560.9 1112.6,549.0 1112.6,525.0 1133.3,513.1 1154.0,525.0"/><polygon class="hx" points="1199.0,549.0 1178.3,560.9 1157.6,549.0 1157.6,525.0 1178.3,513.1 1199.0,525.0"/><polygon class="hx" points="50.7,588.0 30.0,599.9 9.3,588.0 9.3,564.0 30.0,552.1 50.7,564.0"/><polygon class="hx" points="95.7,588.0 75.0,599.9 54.3,588.0 54.3,564.0 75.0,552.1 95.7,564.0"/><polygon class="hx" points="140.8,588.0 120.1,599.9 99.3,588.0 99.3,564.0 120.1,552.1 140.8,564.0"/><polygon class="hx" points="185.8,588.0 165.1,599.9 144.4,588.0 144.4,564.0 165.1,552.1 185.8,564.0"/><polygon class="hx" points="230.8,588.0 210.1,599.9 189.4,588.0 189.4,564.0 210.1,552.1 230.8,564.0"/><polygon class="hx" points="275.9,588.0 255.2,599.9 234.4,588.0 234.4,564.0 255.2,552.1 275.9,564.0"/><polygon class="hx" points="320.9,588.0 300.2,599.9 279.5,588.0 279.5,564.0 300.2,552.1 320.9,564.0"/><polygon class="hx" points="365.9,588.0 345.2,599.9 324.5,588.0 324.5,564.0 345.2,552.1 365.9,564.0"/><polygon class="hx" points="411.0,588.0 390.3,599.9 369.5,588.0 369.5,564.0 390.3,552.1 411.0,564.0"/><polygon class="hx" points="456.0,588.0 435.3,599.9 414.6,588.0 414.6,564.0 435.3,552.1 456.0,564.0"/><polygon class="hx" points="501.0,588.0 480.3,599.9 459.6,588.0 459.6,564.0 480.3,552.1 501.0,564.0"/><polygon class="hx" points="546.1,588.0 525.4,599.9 504.6,588.0 504.6,564.0 525.4,552.1 546.1,564.0"/><polygon class="hx" points="591.1,588.0 570.4,599.9 549.7,588.0 549.7,564.0 570.4,552.1 591.1,564.0"/><polygon class="hx" points="636.1,588.0 615.4,599.9 594.7,588.0 594.7,564.0 615.4,552.1 636.1,564.0"/><polygon class="hx" points="681.2,588.0 660.4,599.9 639.7,588.0 639.7,564.0 660.4,552.1 681.2,564.0"/><polygon class="hx" points="726.2,588.0 705.5,599.9 684.8,588.0 684.8,564.0 705.5,552.1 726.2,564.0"/><polygon class="hx" points="771.2,588.0 750.5,599.9 729.8,588.0 729.8,564.0 750.5,552.1 771.2,564.0"/><polygon class="hx" points="816.3,588.0 795.5,599.9 774.8,588.0 774.8,564.0 795.5,552.1 816.3,564.0"/><polygon class="hx" points="861.3,588.0 840.6,599.9 819.9,588.0 819.9,564.0 840.6,552.1 861.3,564.0"/><polygon class="hx" points="906.3,588.0 885.6,599.9 864.9,588.0 864.9,564.0 885.6,552.1 906.3,564.0"/><polygon class="hx" points="951.4,588.0 930.6,599.9 909.9,588.0 909.9,564.0 930.6,552.1 951.4,564.0"/><polygon class="hx" points="996.4,588.0 975.7,599.9 955.0,588.0 955.0,564.0 975.7,552.1 996.4,564.0"/><polygon class="hx" points="1041.4,588.0 1020.7,599.9 1000.0,588.0 1000.0,564.0 1020.7,552.1 1041.4,564.0"/><polygon class="hx" points="1086.5,588.0 1065.7,599.9 1045.0,588.0 1045.0,564.0 1065.7,552.1 1086.5,564.0"/><polygon class="hx" points="1131.5,588.0 1110.8,599.9 1090.1,588.0 1090.1,564.0 1110.8,552.1 1131.5,564.0"/><polygon class="hx" points="1176.5,588.0 1155.8,599.9 1135.1,588.0 1135.1,564.0 1155.8,552.1 1176.5,564.0"/></svg></div>
-  <p class="lead small approach-note" data-anim>Sites that tie are never forced into a ranking. Each keeps a verdict per trait: match, miss with its gap, or unknown.</p>
   <p class="sources" data-anim>Earth data: Copernicus DEM · NASA MODIS · MERRA-2 · ESA CCI Permafrost · travel time (Weiss et al. 2018) · OurAirports · NASA EONET</p>
 </div>
 

diff --git a/apps/showcase/composition/deck.css b/apps/showcase/composition/deck.css
@@ -152,7 +152,6 @@ html, body {
 
 /* ---------- approach ---------- */
 .hexwrap { position: absolute; left: 900px; top: 160px; width: 900px; }
-.approach-note { position: absolute; left: 900px; top: 660px; width: 900px; }
 .hexes { width: 900px; height: auto; display: block; }
 .hx { fill: #1f2330; }
 .hx.fit { fill: var(--accent); }

diff --git a/apps/showcase/index.html b/apps/showcase/index.html
@@ -40,7 +40,7 @@
     },
     {
       "sceneId": "approach",
-      "notes": "Enter the test and the location; the grid lights up the cells that fit. Ties are not ranked."
+      "notes": "Enter the test and the location; the grid lights up the cells that fit."
     },
     {
       "sceneId": "step-1",
